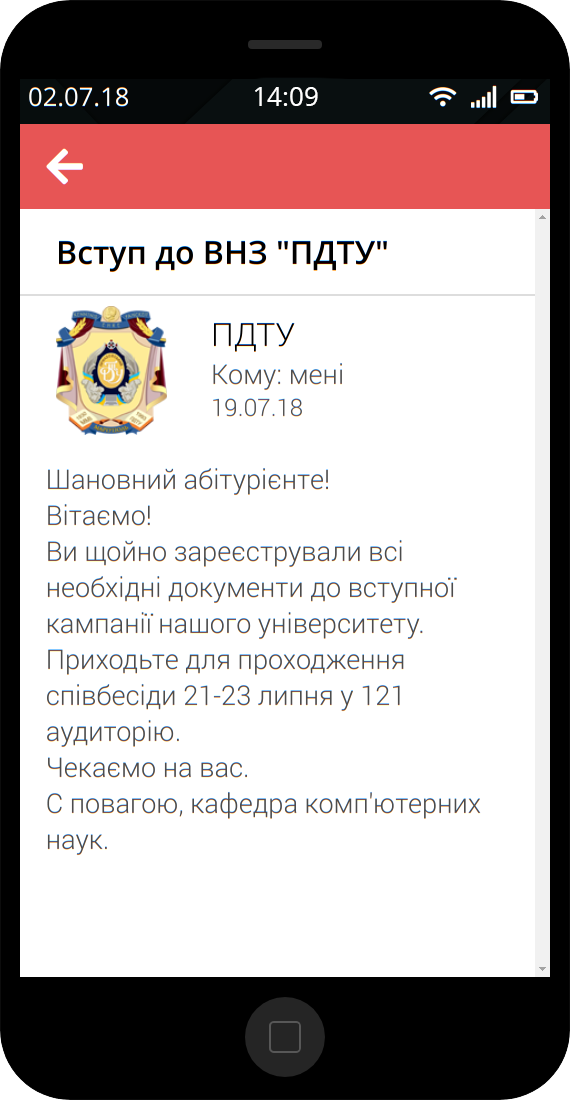
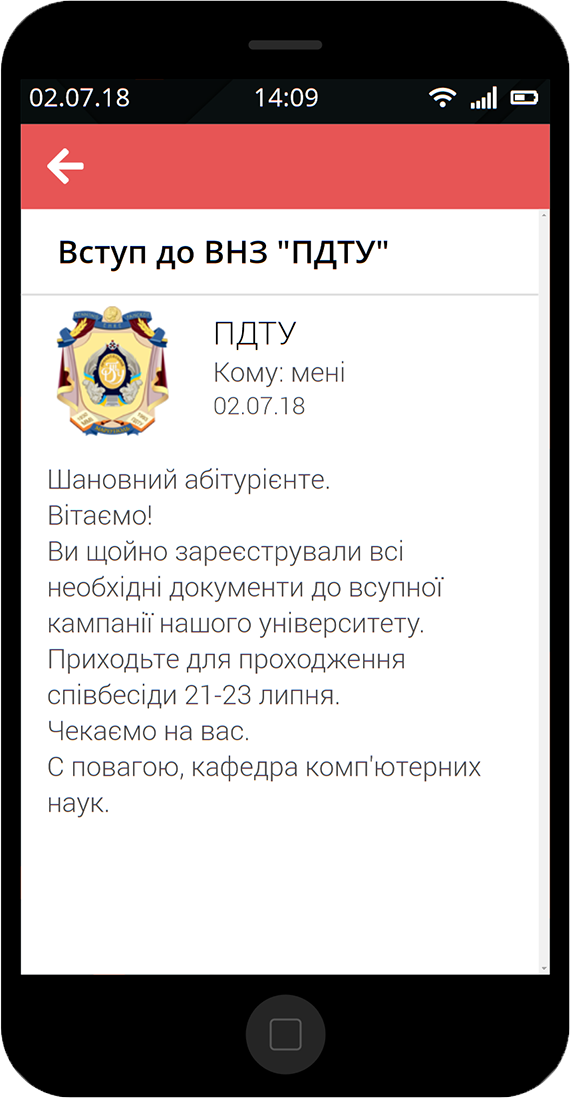
Обновил картинку мобилы в конце первого этапа. Добавил лого в почте

diff --git a/frontend/src/components/Game/Phone/Mail.jsx b/frontend/src/components/Game/Phone/Mail.jsx
@@ -1,6 +1,7 @@
 import React, {Component} from 'react';
 import PropTypes from 'prop-types';
 import autobind from 'autobind-decorator';
+import logoPstu from '~img/logo-pstu.png';
 
 import './Mail.sass';
 
@@ -78,7 +79,7 @@ class Mail extends Component {
                         <div class="theme">{activeMessage.theme}</div>
                         <div class="info">
                             <div class="logo">
-                                <img src="img/logo-pstu.png" alt="Відправник" />
+                                <img src={logoPstu} alt="Відправник" />
                             </div>
                             <div class="user-info">
                                 <div class="sender">Від: {activeMessage.sender}</div>
